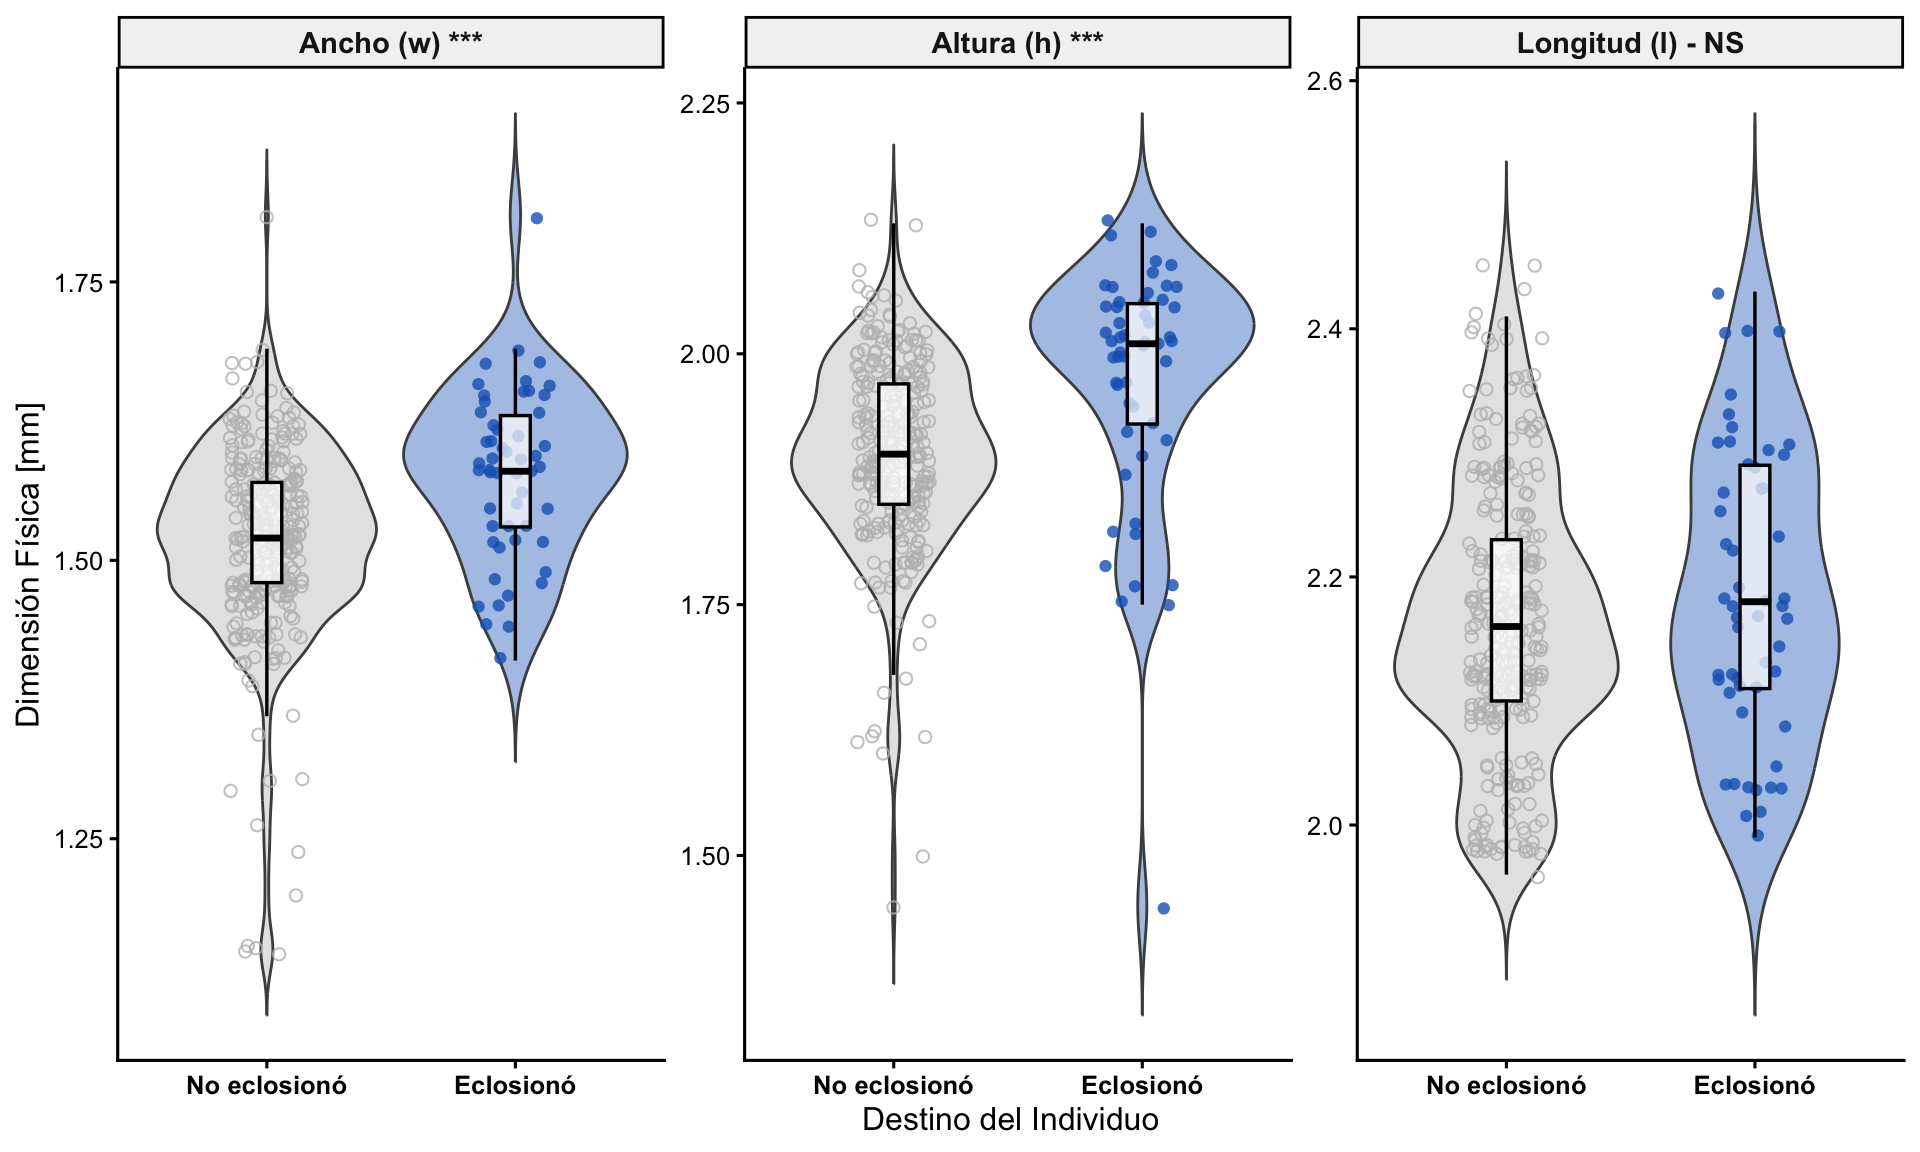
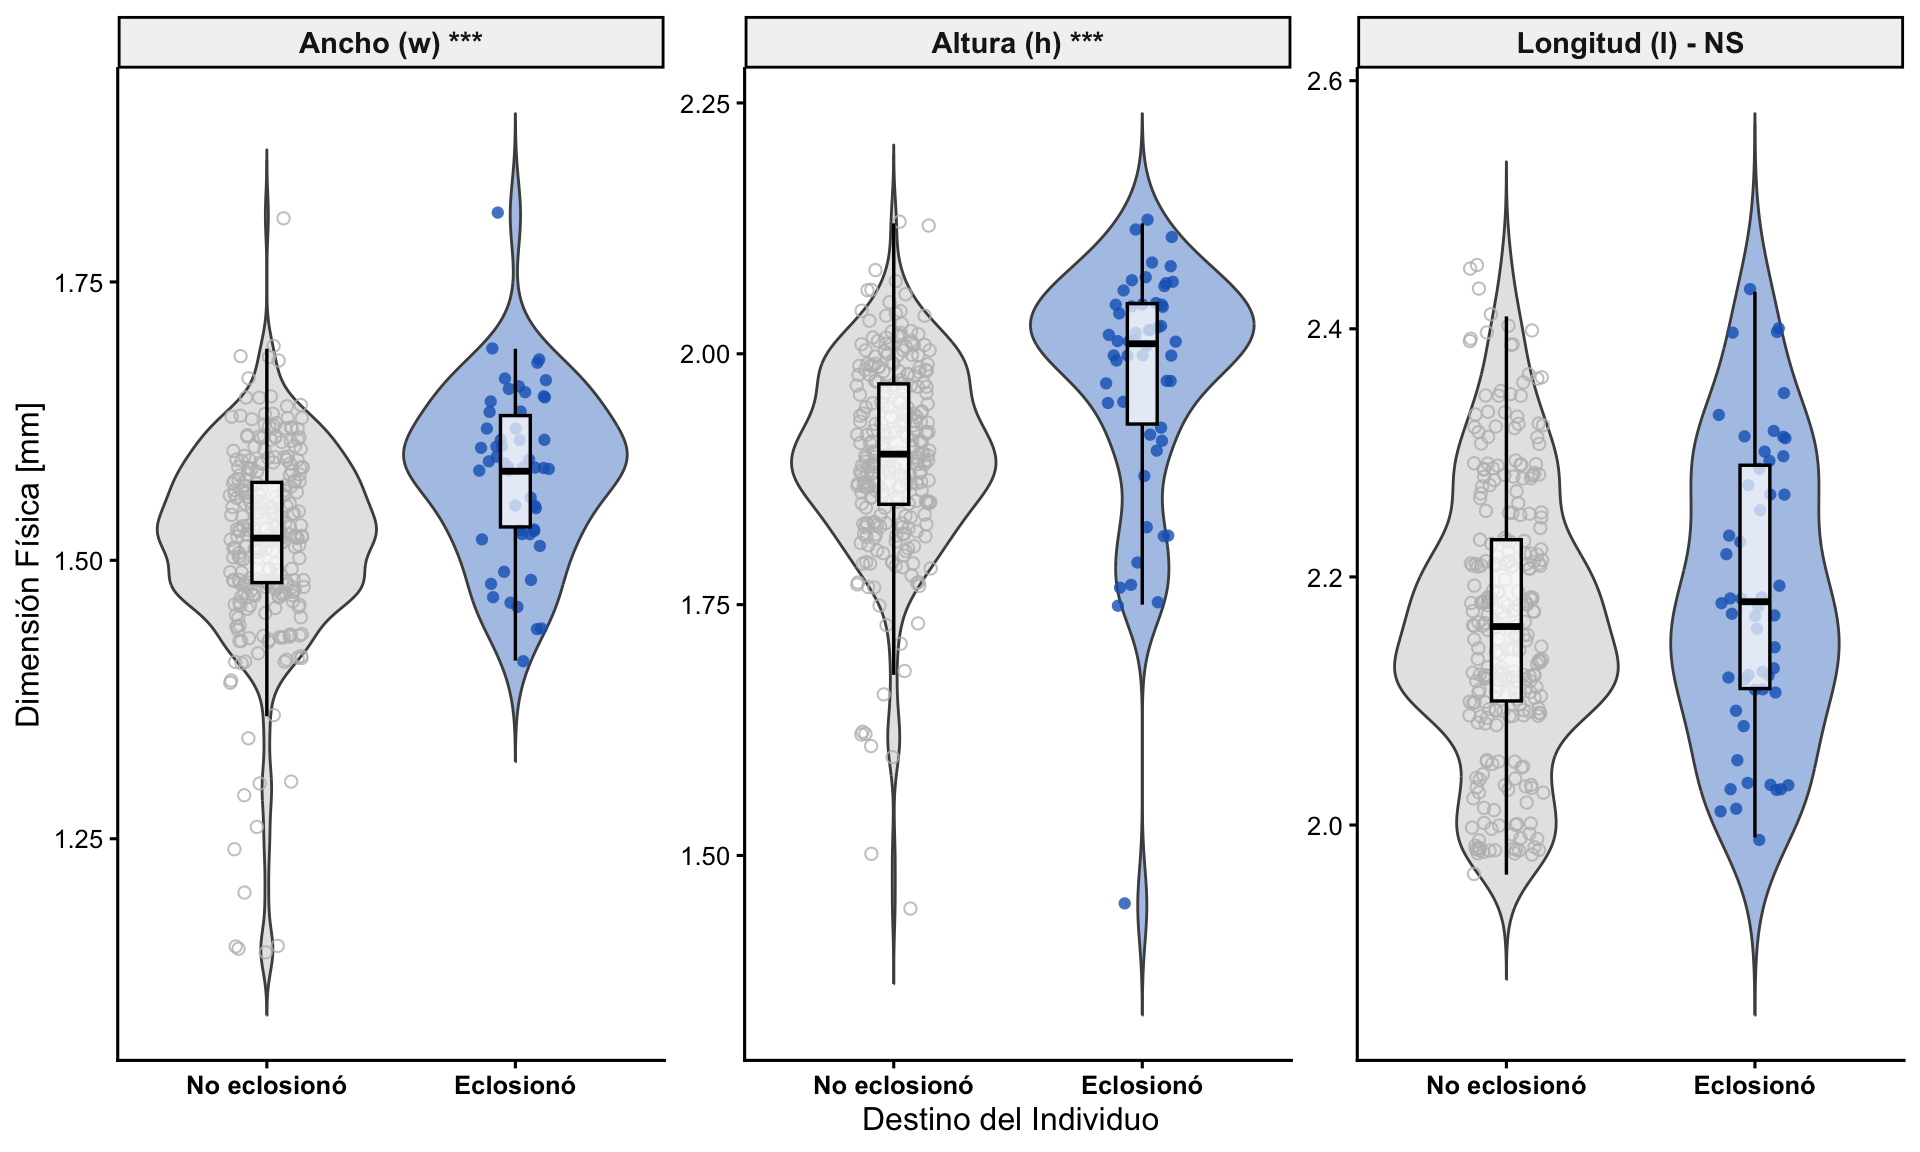
Built site for gh-pages

diff --git a/index.html b/index.html
@@ -98,17 +98,6 @@ ul.task-list li input[type="checkbox"] {
     <a class="nav-link active" href="./index.html" aria-current="page"> 
 <span class="menu-text">Inicio</span></a>
   </li>  
-  <li class="nav-item dropdown ">
-    <a class="nav-link dropdown-toggle" href="#" id="nav-menu-proyectos" role="link" data-bs-toggle="dropdown" aria-expanded="false">
- <span class="menu-text">Proyectos</span>
-    </a>
-    <ul class="dropdown-menu" aria-labelledby="nav-menu-proyectos">    
-        <li>
-    <a class="dropdown-item" href="./fasmidos.html">
- <span class="dropdown-text">Monitoreo de Fásmidos</span></a>
-  </li>  
-    </ul>
-  </li>
 </ul>
           </div> <!-- /navcollapse -->
             <div class="quarto-navbar-tools">
